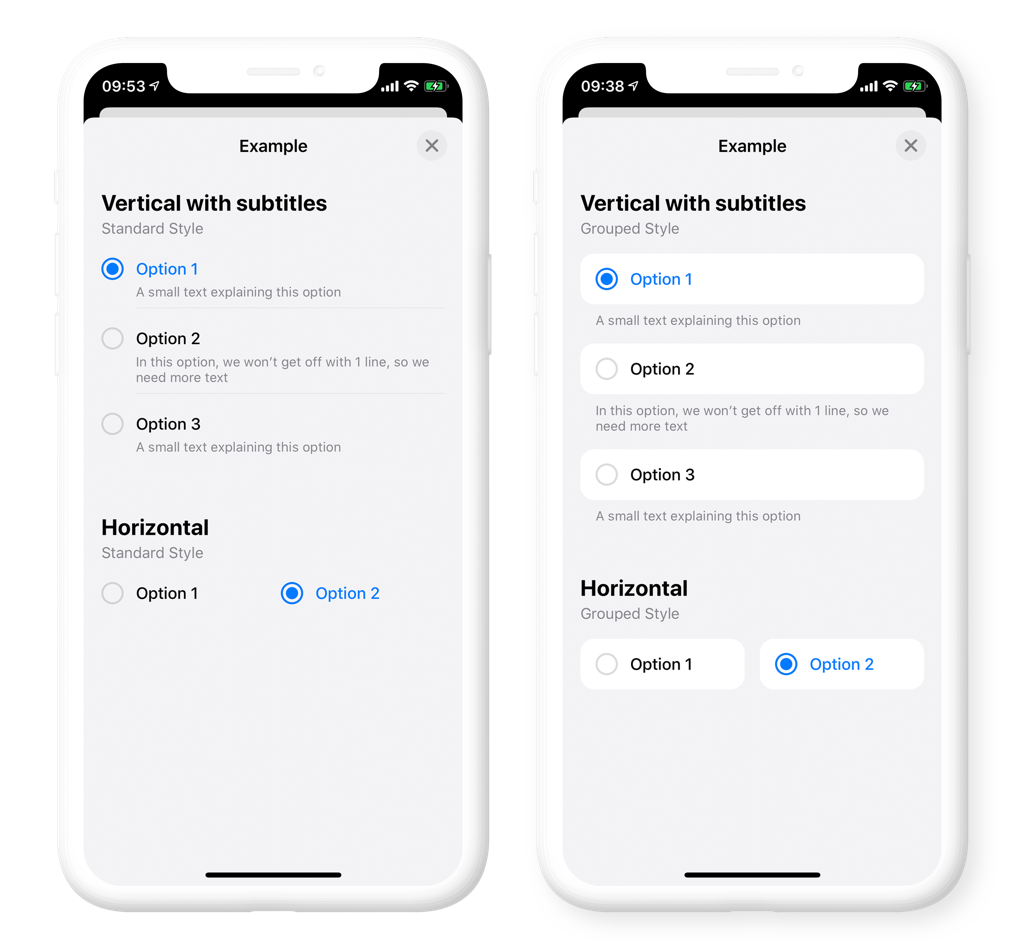
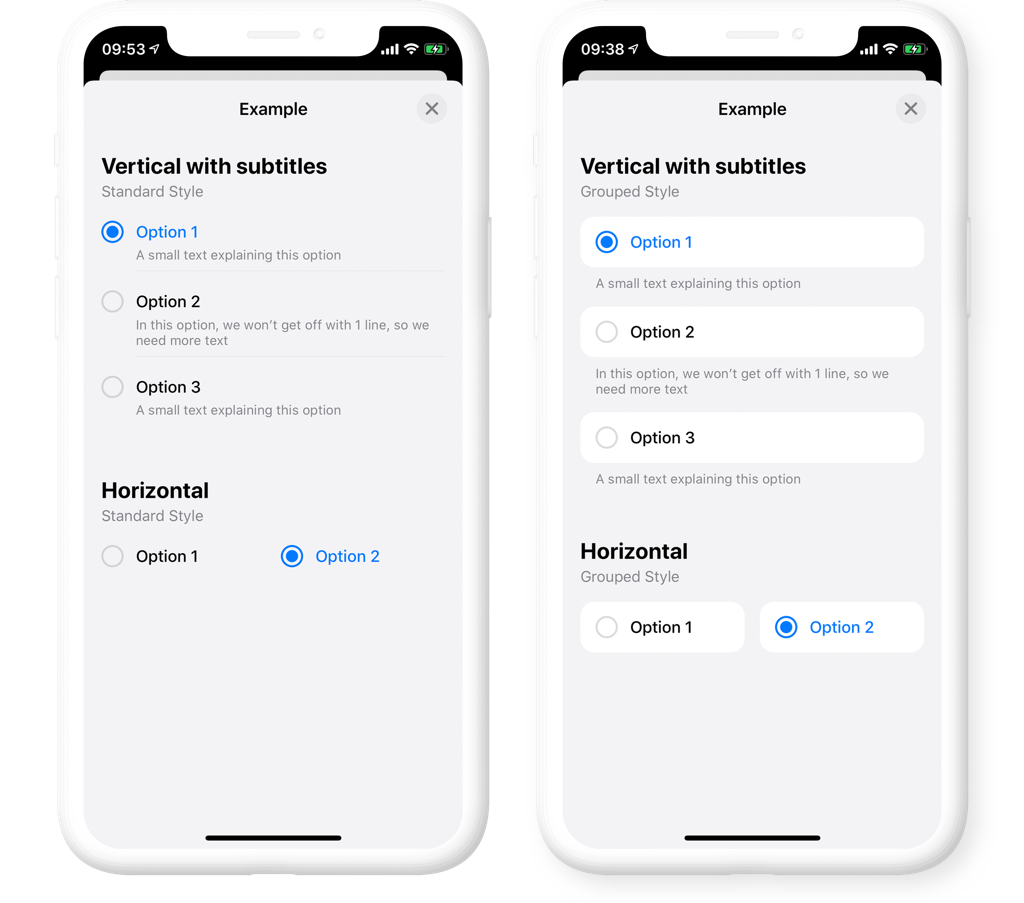
update readme

diff --git a/README.md b/README.md
@@ -2,23 +2,22 @@
 
 
 
-<img align="left" src="Assets/preview.png" width="500"/>
+<img align="left" src="https://github.com/alxrguz/ALRadioButtons/blob/master/Assets/preview.png" width="400"/>
 
 ### About
 
 **iOS RadioButtons with native style.**  Simple to use, inherited from UIControl, fully customizable.
 
+RadioButtons are inherited from UIControl, so you can easily manage them. 2 styles are supported: 
 
+- standard - similar to UITableView plain style 
+- grouped - similar to UITableView insertGrouped style
 
-If you liked this library, please do not forget to put a `star`, it will help me in its development.
-<br/><br/>
-<br/><br/>
-<br/><br/>
-<br/><br/>
-<br/><br/>
-<br/><br/><br/>
+Positioned both vertically and horizontally.
 
+<br/>
 
+If you liked this library, please do not forget to put a `star`, it will help me in its development. 
 
 ## Navigation
 
